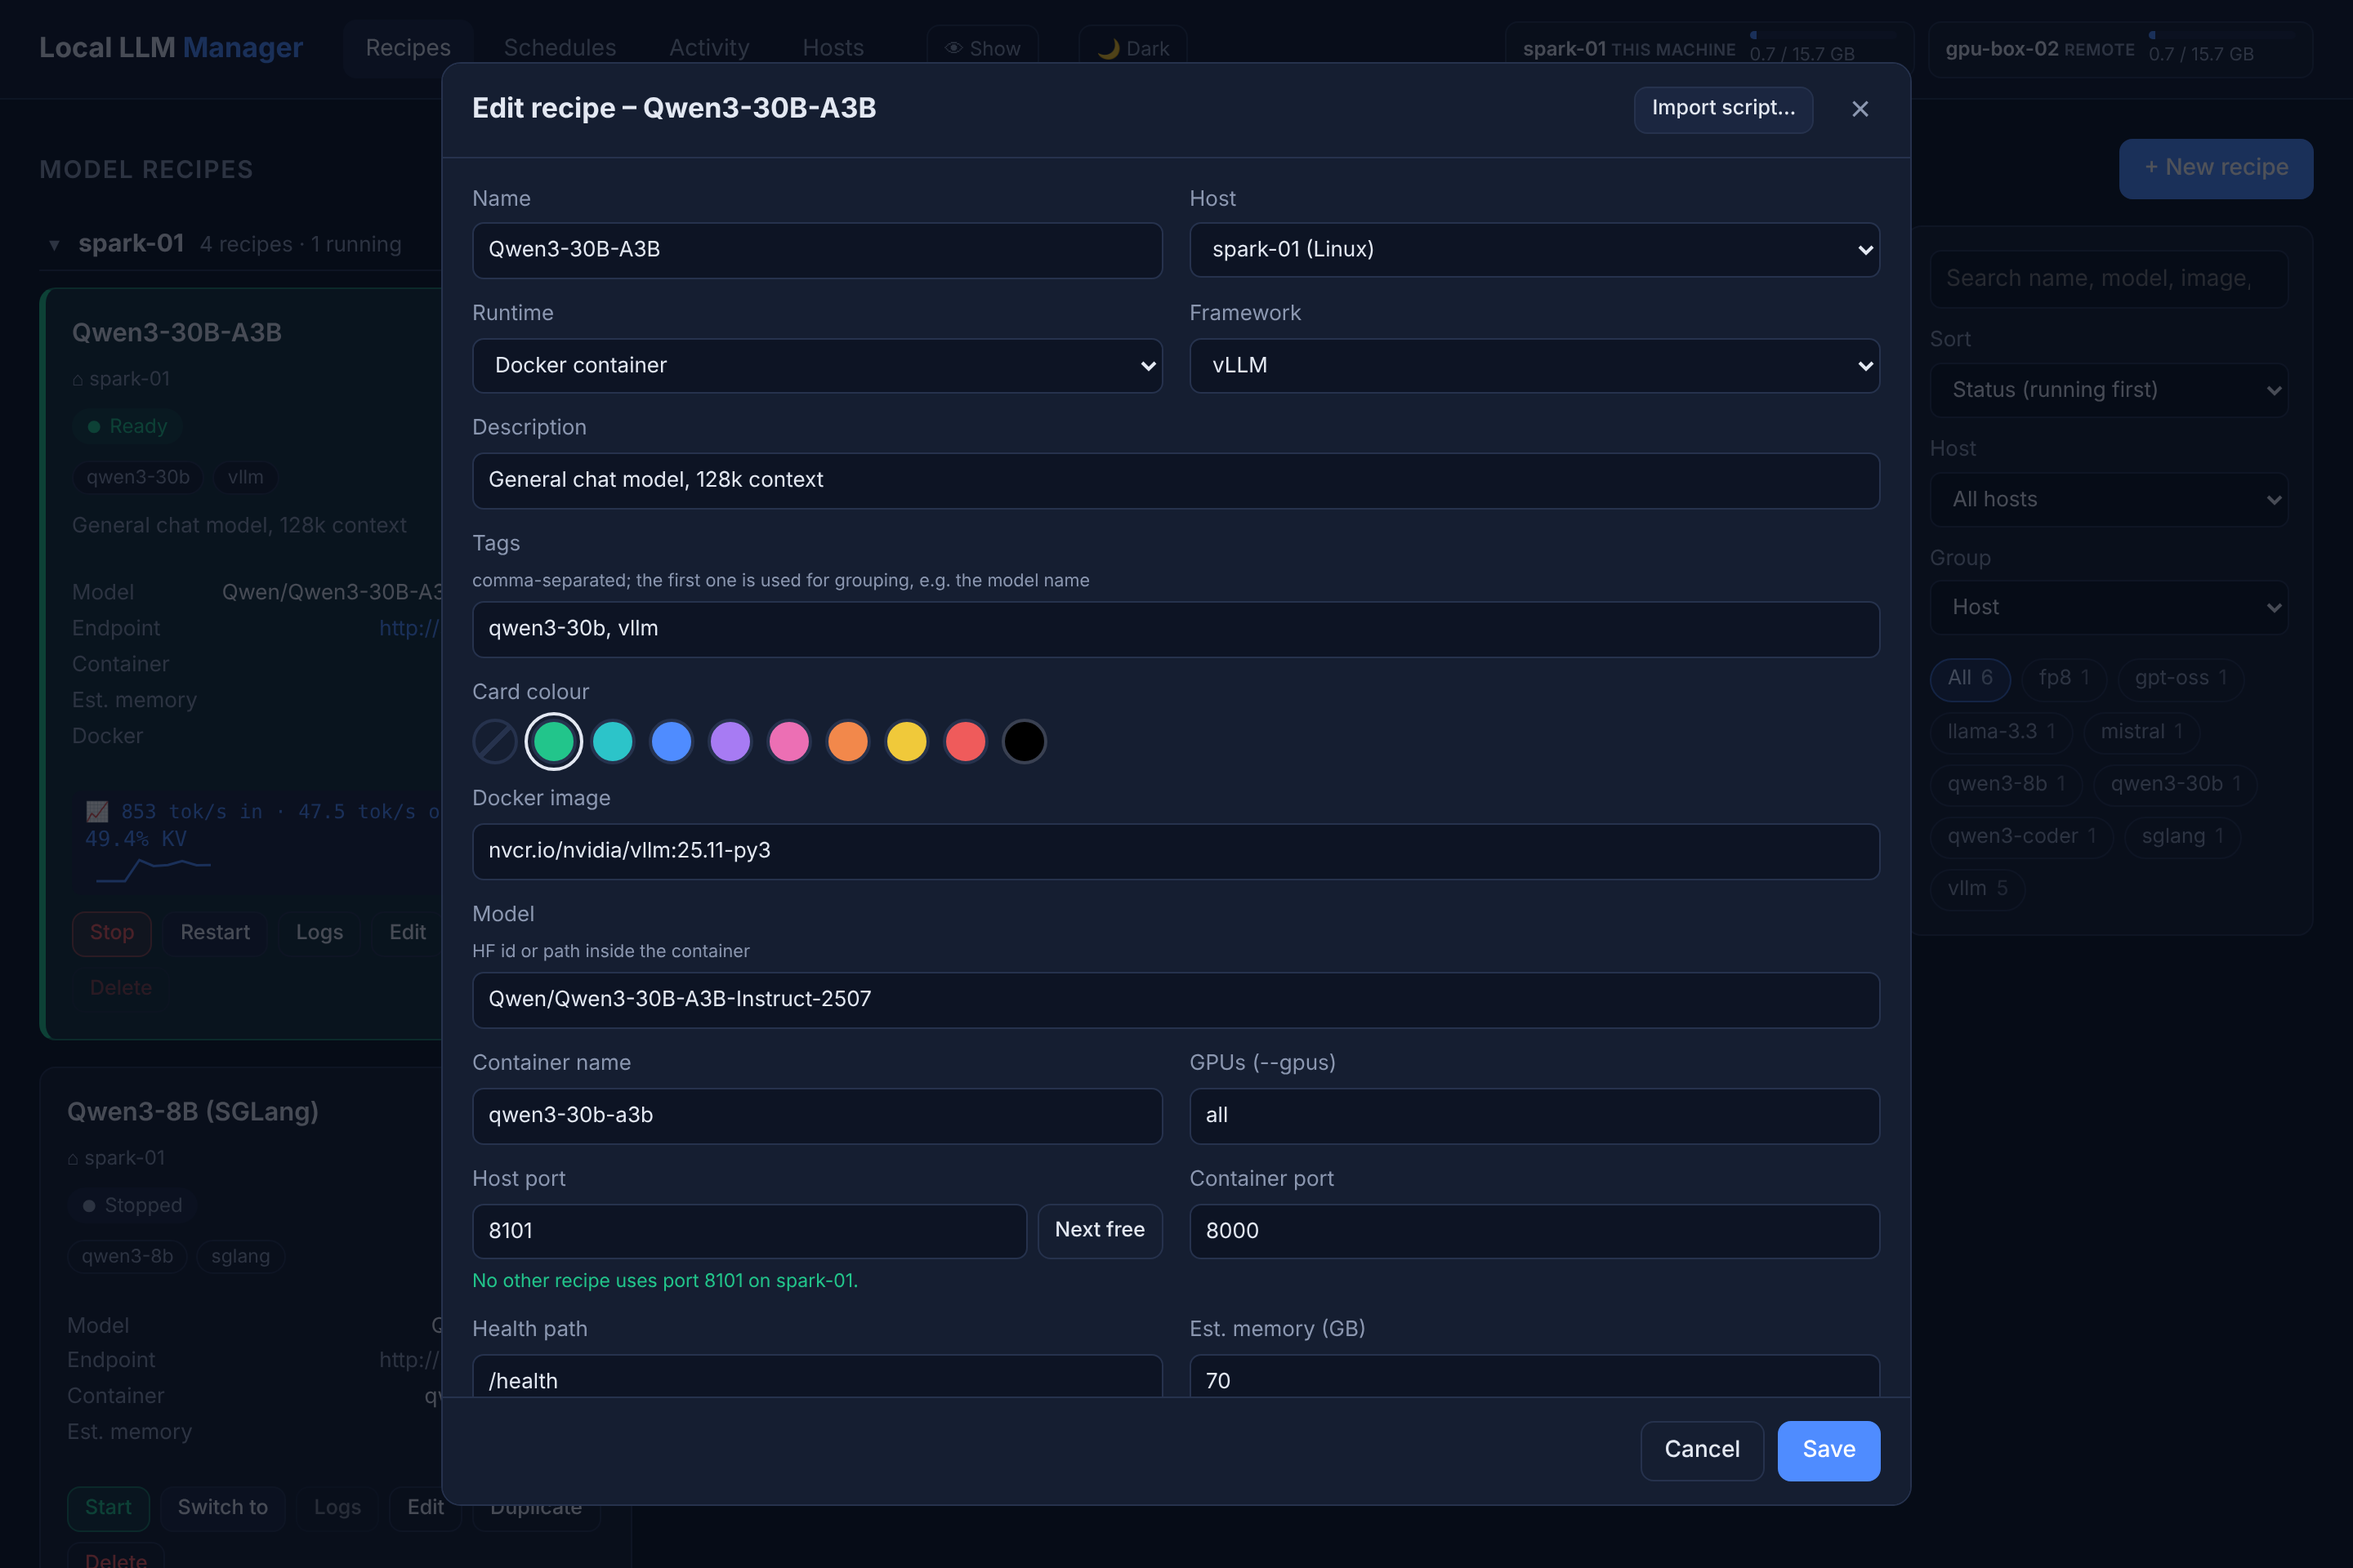
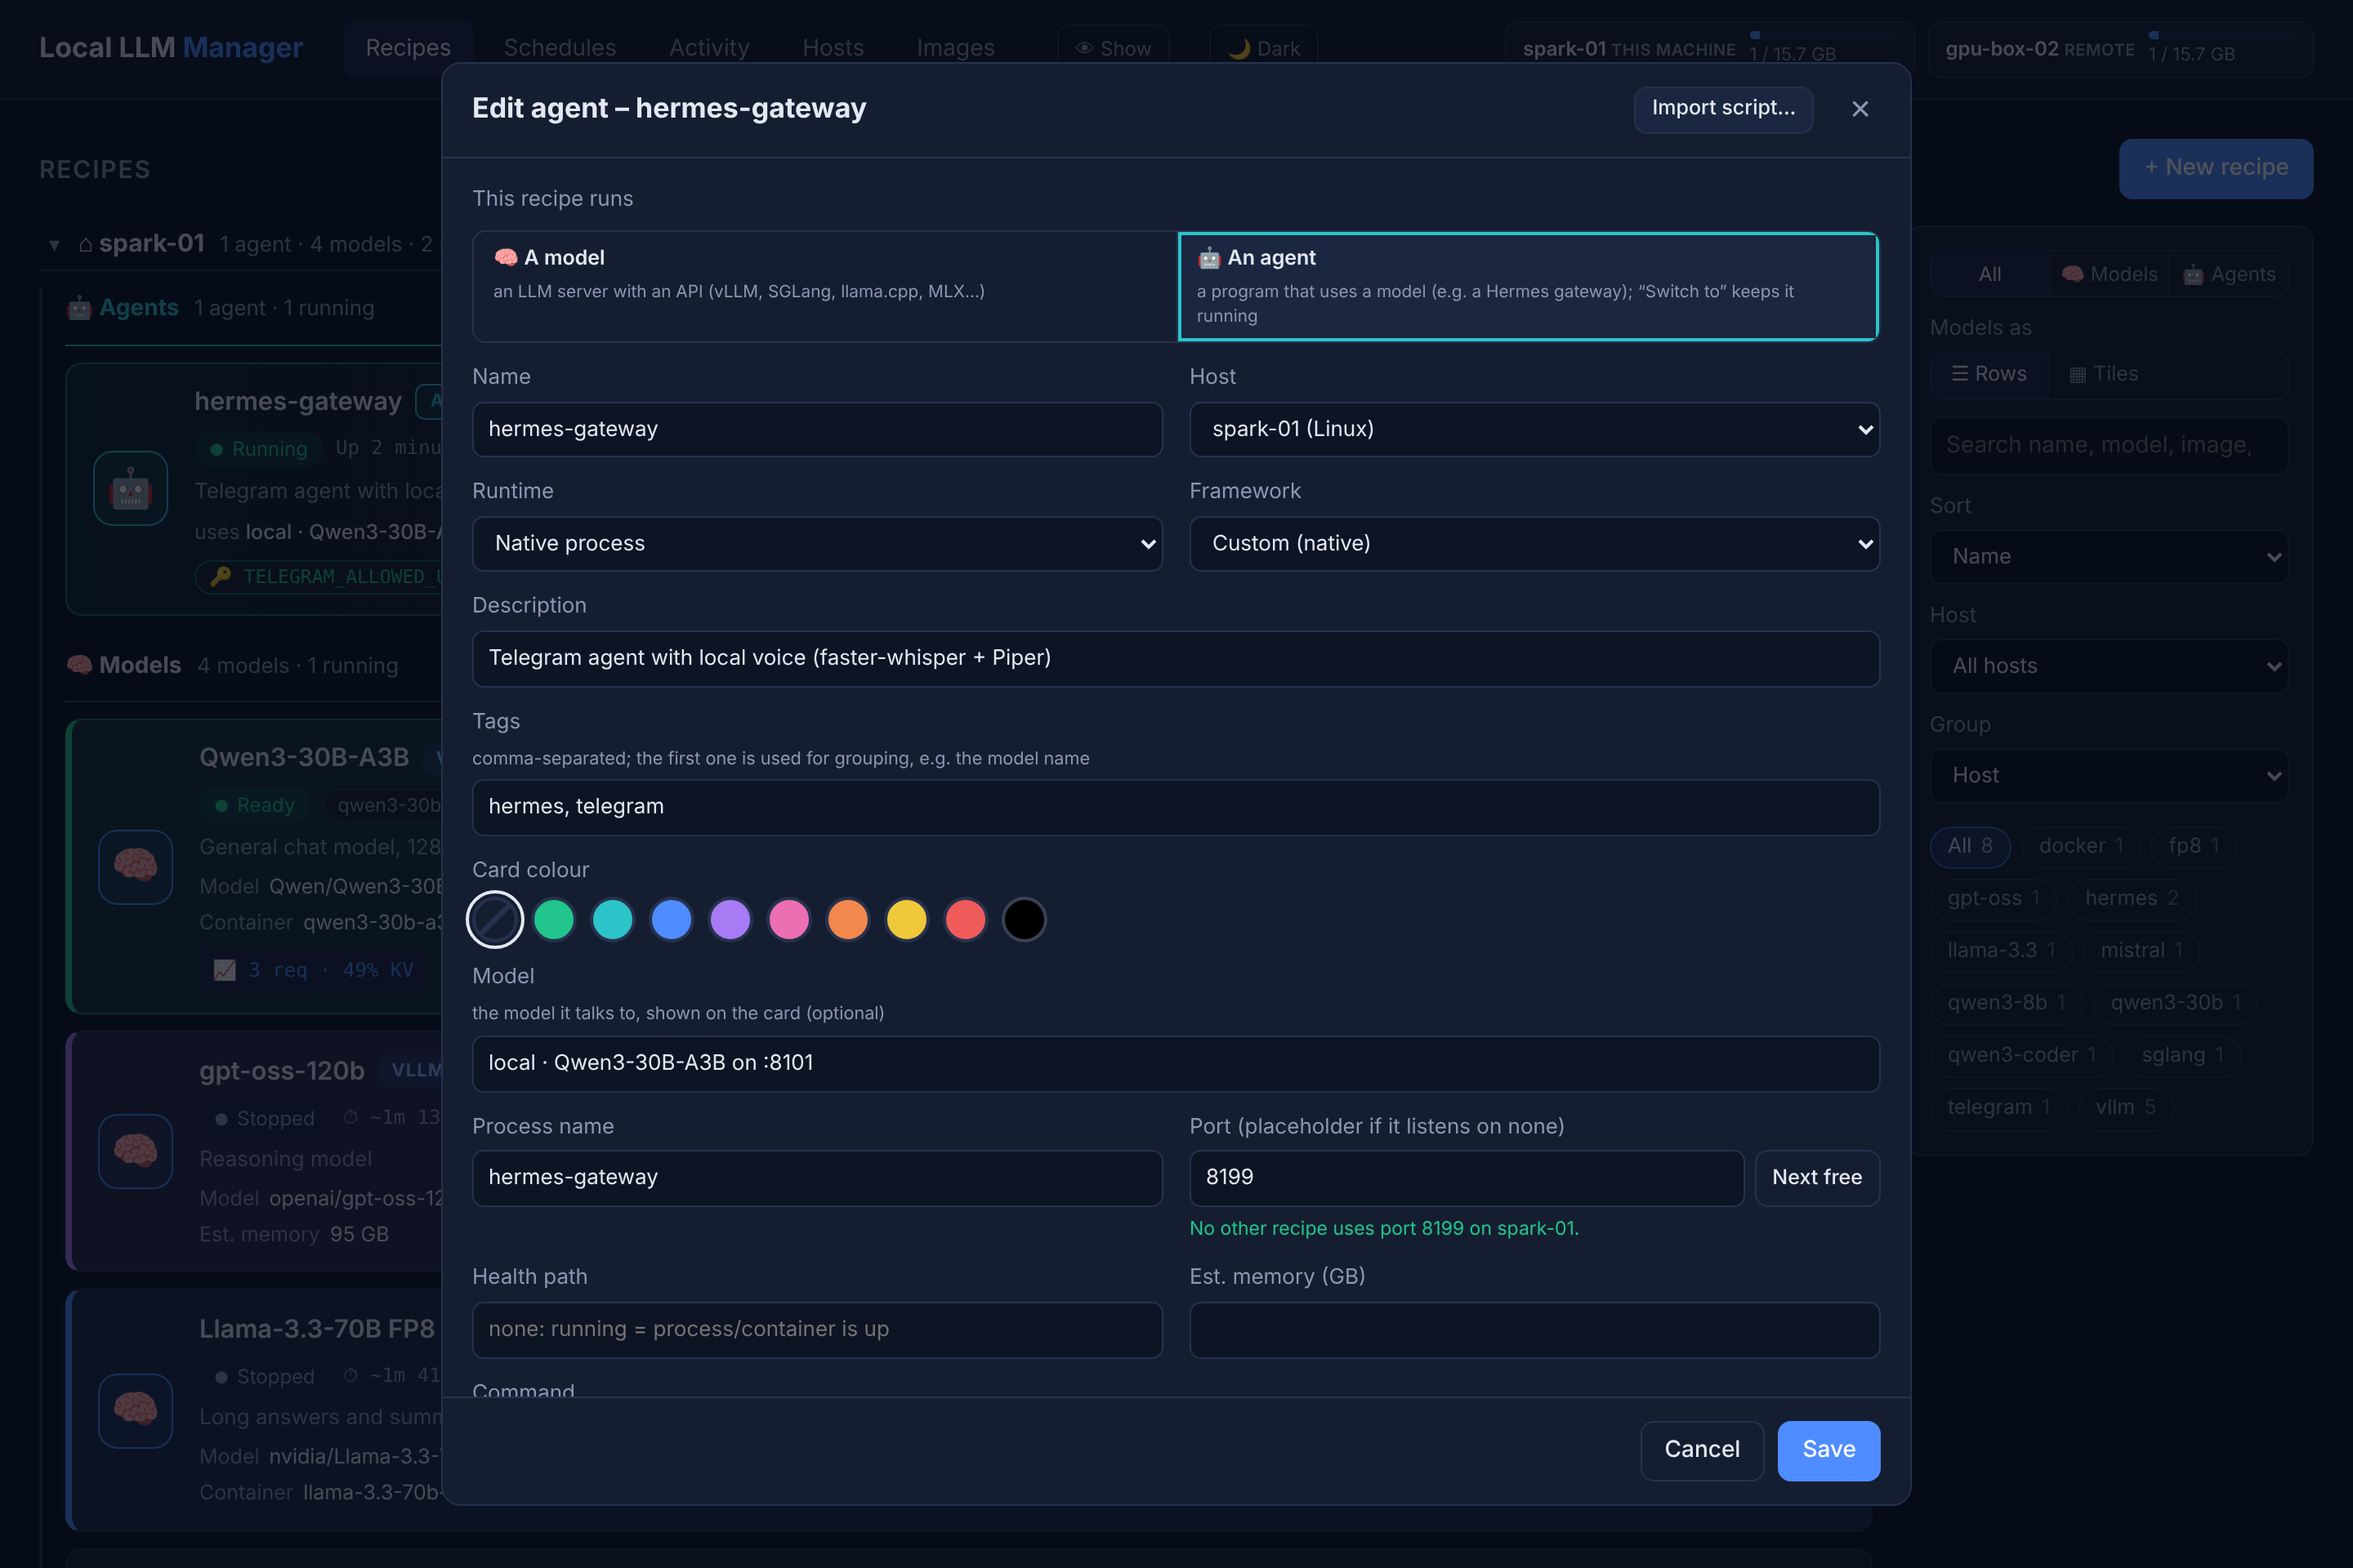
Update README and screenshots for agents and model rows
- README: feature bullet for agents, a "Models and agents" section
  (what an agent recipe is, how Switch to / stop all treat it, the
  secret and duplicate checks, Rows / Tiles), Hermes example wording,
  and a note that agent recipes are not the manager's agent mode.
- New screenshots from a demo setup (two hosts, fake docker): host
  groups with agents above models as rows, light theme with tiles,
  schedules, hosts (blurred) and the editor on an agent.
- Fix: the "KV" span in a card's stats line picked up the .kv fact-list
  grid and wrapped onto its own line; row endpoint links match tiles.

Claude-Session: https://claude.ai/code/session_01S8Nht9FiCaDXHTwyj6i3aS

diff --git a/local_llm_manager/static/style.css b/local_llm_manager/static/style.css
@@ -117,6 +117,8 @@ main { padding: 24px; max-width: 1500px; margin: 0 auto; }
 .card-metrics .spark polyline { fill: none; stroke: var(--accent); stroke-width: 1.5; }
 .card-metrics.idle { color: var(--muted); }
 .card-metrics .idle-word { font-style: italic; }
+/* the metrics line's "KV" span is not the .kv fact list below */
+.card-metrics .kv { display: inline; font-size: inherit; }
 .card-metrics .kv.warm { color: var(--yellow); }
 .card-metrics .kv.hot { color: var(--red); font-weight: 600; }
 .spark.flat polyline { stroke: var(--muted); stroke-dasharray: 3 3; }
@@ -494,6 +496,7 @@ td .copy { margin-left: 6px; padding: 1px 8px; }
 .row-facts div { display: flex; gap: 6px; min-width: 0; }
 .row-facts dt { color: var(--muted); }
 .row-facts dd { margin: 0; overflow-wrap: anywhere; }
+.row-facts a { color: var(--accent); text-decoration: none; }
 .model-row .card-metrics { align-self: flex-start; max-width: 100%; }
 .model-row .actions { flex: 0 0 auto; margin-top: 0; justify-content: flex-end; max-width: 420px; }
 #recipe-layout { display: inline-flex; }

diff --git a/README.md b/README.md
@@ -12,6 +12,9 @@ silicon, or any Linux box - from any browser on your network:
 - **Recipes:** save how to start a model server (vLLM, SGLang, TensorRT-LLM, llama.cpp, MLX or any image),
   as a Docker container or as a native process. Or import an existing starter script / `docker run` command.
 - **Start, stop, restart, or "switch to"** a model (stops the others on that machine and frees memory first).
+- **Agents next to models:** run the programs that use your models - e.g. a [Hermes Agent](examples/hermes-agent/)
+  Telegram gateway - as recipes too. They get their own section per host (🤖 above 🧠), keep running when you
+  switch models, and show whether their secrets are set and whether a stray second copy is running.
 - **Live status, logs and stats:** loading/ready/failed, tokens/s with a throughput sparkline, running
   requests, KV cache usage - and an estimate of how long a start typically takes (measured trigger → ready).
 - **Schedules:** start, stop or switch models at set times, with a timeline of what will run when.
@@ -41,17 +44,18 @@ download them.
   Whisper runs next to it via Docker Compose; the LLM is a recipe in this manager, so **Switch to** changes
   the bot's model.
 - [Hermes Agent](examples/hermes-agent/): a full personal agent on Telegram with local speech-to-text and
-  text-to-speech, running on a model from this manager; the Hermes gateway itself is a native-process recipe.
+  text-to-speech, running on a model from this manager; the Hermes gateway itself is an agent recipe (native
+  process or Docker).
 
 ## Screenshots
 
-| Light theme | Schedules & planned-runs timeline |
+| Light theme, models as tiles | Schedules & planned-runs timeline |
 |---|---|
-| ![Light theme](docs/screenshots/recipes-light.png) | ![Schedules](docs/screenshots/schedules-dark.png) |
+| ![Light theme, models as tiles](docs/screenshots/recipes-light.png) | ![Schedules](docs/screenshots/schedules-dark.png) |
 
-| Hosts, ports & endpoints | Recipe editor |
+| Hosts, ports & endpoints | Recipe editor (an agent) |
 |---|---|
-| ![Hosts](docs/screenshots/hosts-dark.png) | ![Recipe editor](docs/screenshots/recipe-editor-dark.png) |
+| ![Hosts](docs/screenshots/hosts-dark.png) | ![Recipe editor, editing an agent](docs/screenshots/recipe-editor-dark.png) |
 
 The screenshots show a demo setup. The top-bar **🙈 Blur** toggle replaces host names and IPs with aliases such as
 `host-3f2a` (as in the Hosts screenshot) - handy for screenshots and screen shares.
@@ -165,6 +169,22 @@ command; change it to `--host {bind_host}` for native-process and `--network hos
 - Live stats come from the server's `/metrics` endpoint: on by default in vLLM, add `--enable-metrics`
   for SGLang and `--metrics` for llama.cpp.
 - Starting is refused if the port is already in use on that machine.
+
+### Models and agents
+
+The editor's first choice, *This recipe runs*, sets what a recipe is:
+
+- **A model** - an LLM server with an API (vLLM, SGLang, llama.cpp, MLX, …): the usual recipe.
+- **An agent** - a program that *uses* a model, e.g. a Hermes gateway (native or Docker). It is listed in
+  its own 🤖 Agents section (per host when grouped), has no endpoint or engine stats, and needs no GPU or
+  health path (running = its process/container is up; the port may be a placeholder). **Switch to** on a
+  model stops only the other *models* on that host, and agents themselves have no **Switch to**; "stop all"
+  and "free memory" stop agents too. The card shows each passed-through secret name (a bare `KEY` line in
+  *Environment*) with ✓ or ✗ - whether the manager's environment on that host has it; values are never
+  shown - and, for native agents, warns when the same command also runs outside the manager.
+
+Not to be confused with **agent mode** ([Several machines](#several-machines)), which is how the manager itself runs on a second machine.
+"Models as: Rows / Tiles" in the filter rail switches models between wide rows (default) and cards.
 
 ## Schedules and time zone
 

diff --git a/CHANGELOG.md b/CHANGELOG.md
@@ -46,6 +46,8 @@ to [Semantic Versioning](https://semver.org/spec/v2.0.0.html).
   that record, so it now shows **failed** instead of a misleading "stopped".
 
 ### Fixed
+- The "KV" figure in a card's stats line no longer drops onto its own line (it picked up the layout of
+  the card's fact list).
 - On phones, the tab bar wraps instead of making the page wider than the screen.
 
 ## [0.1.0] - 2026-10-26
